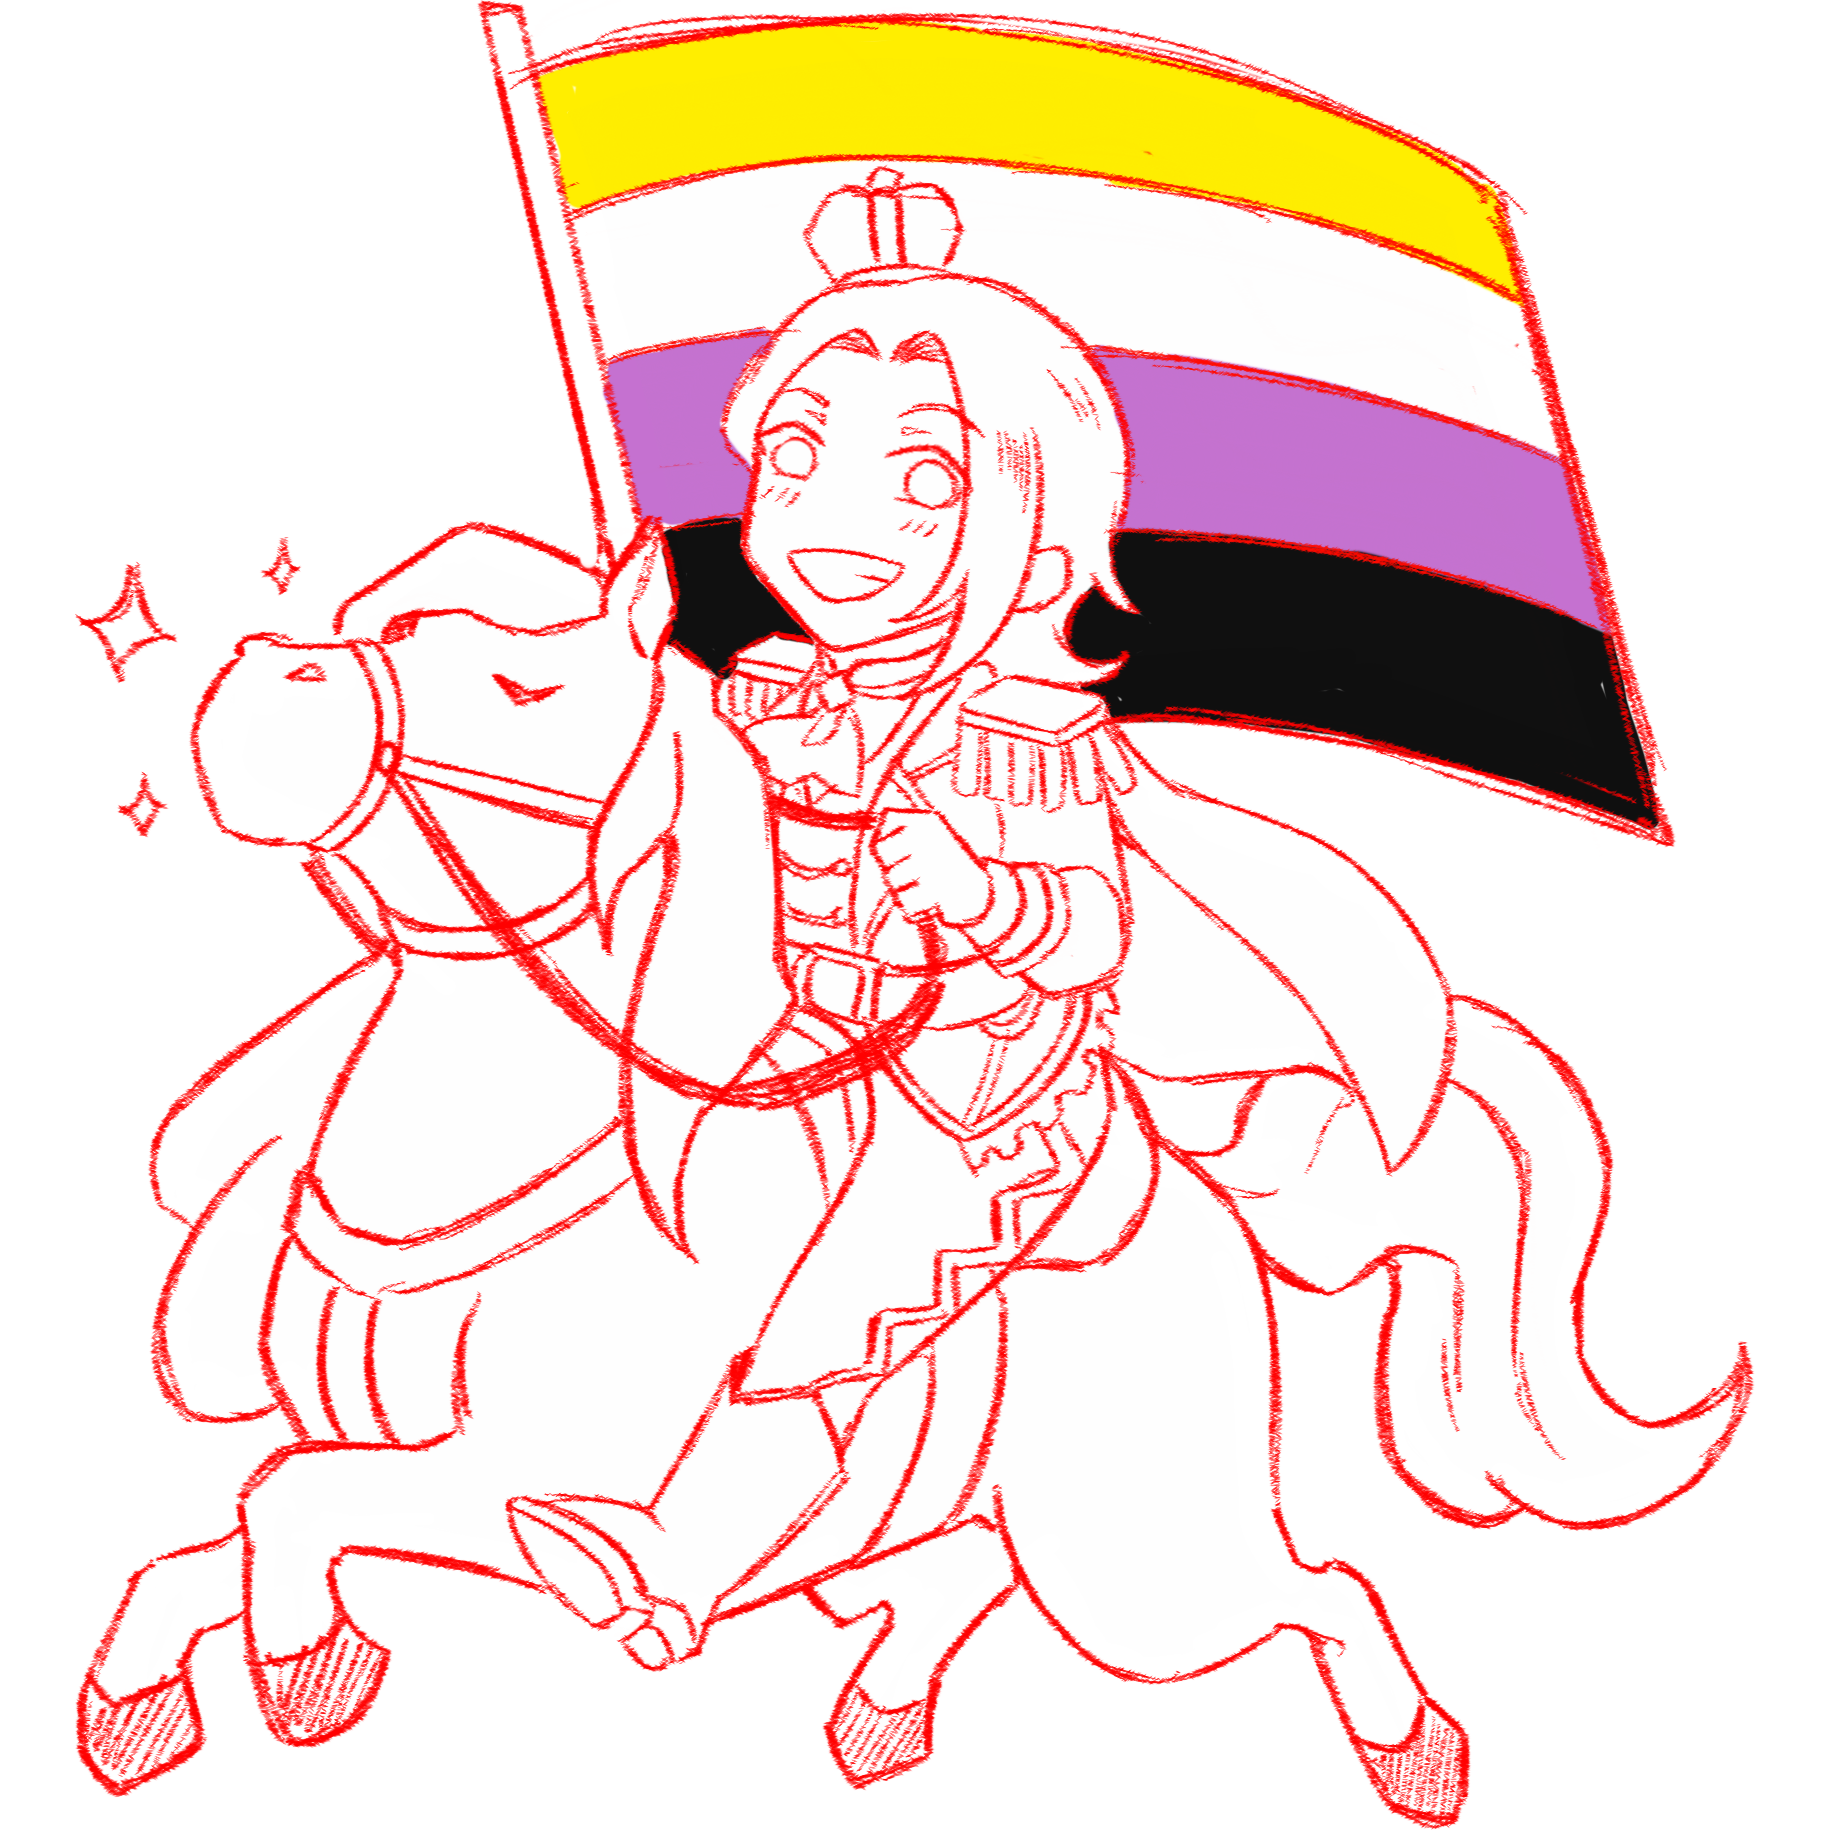
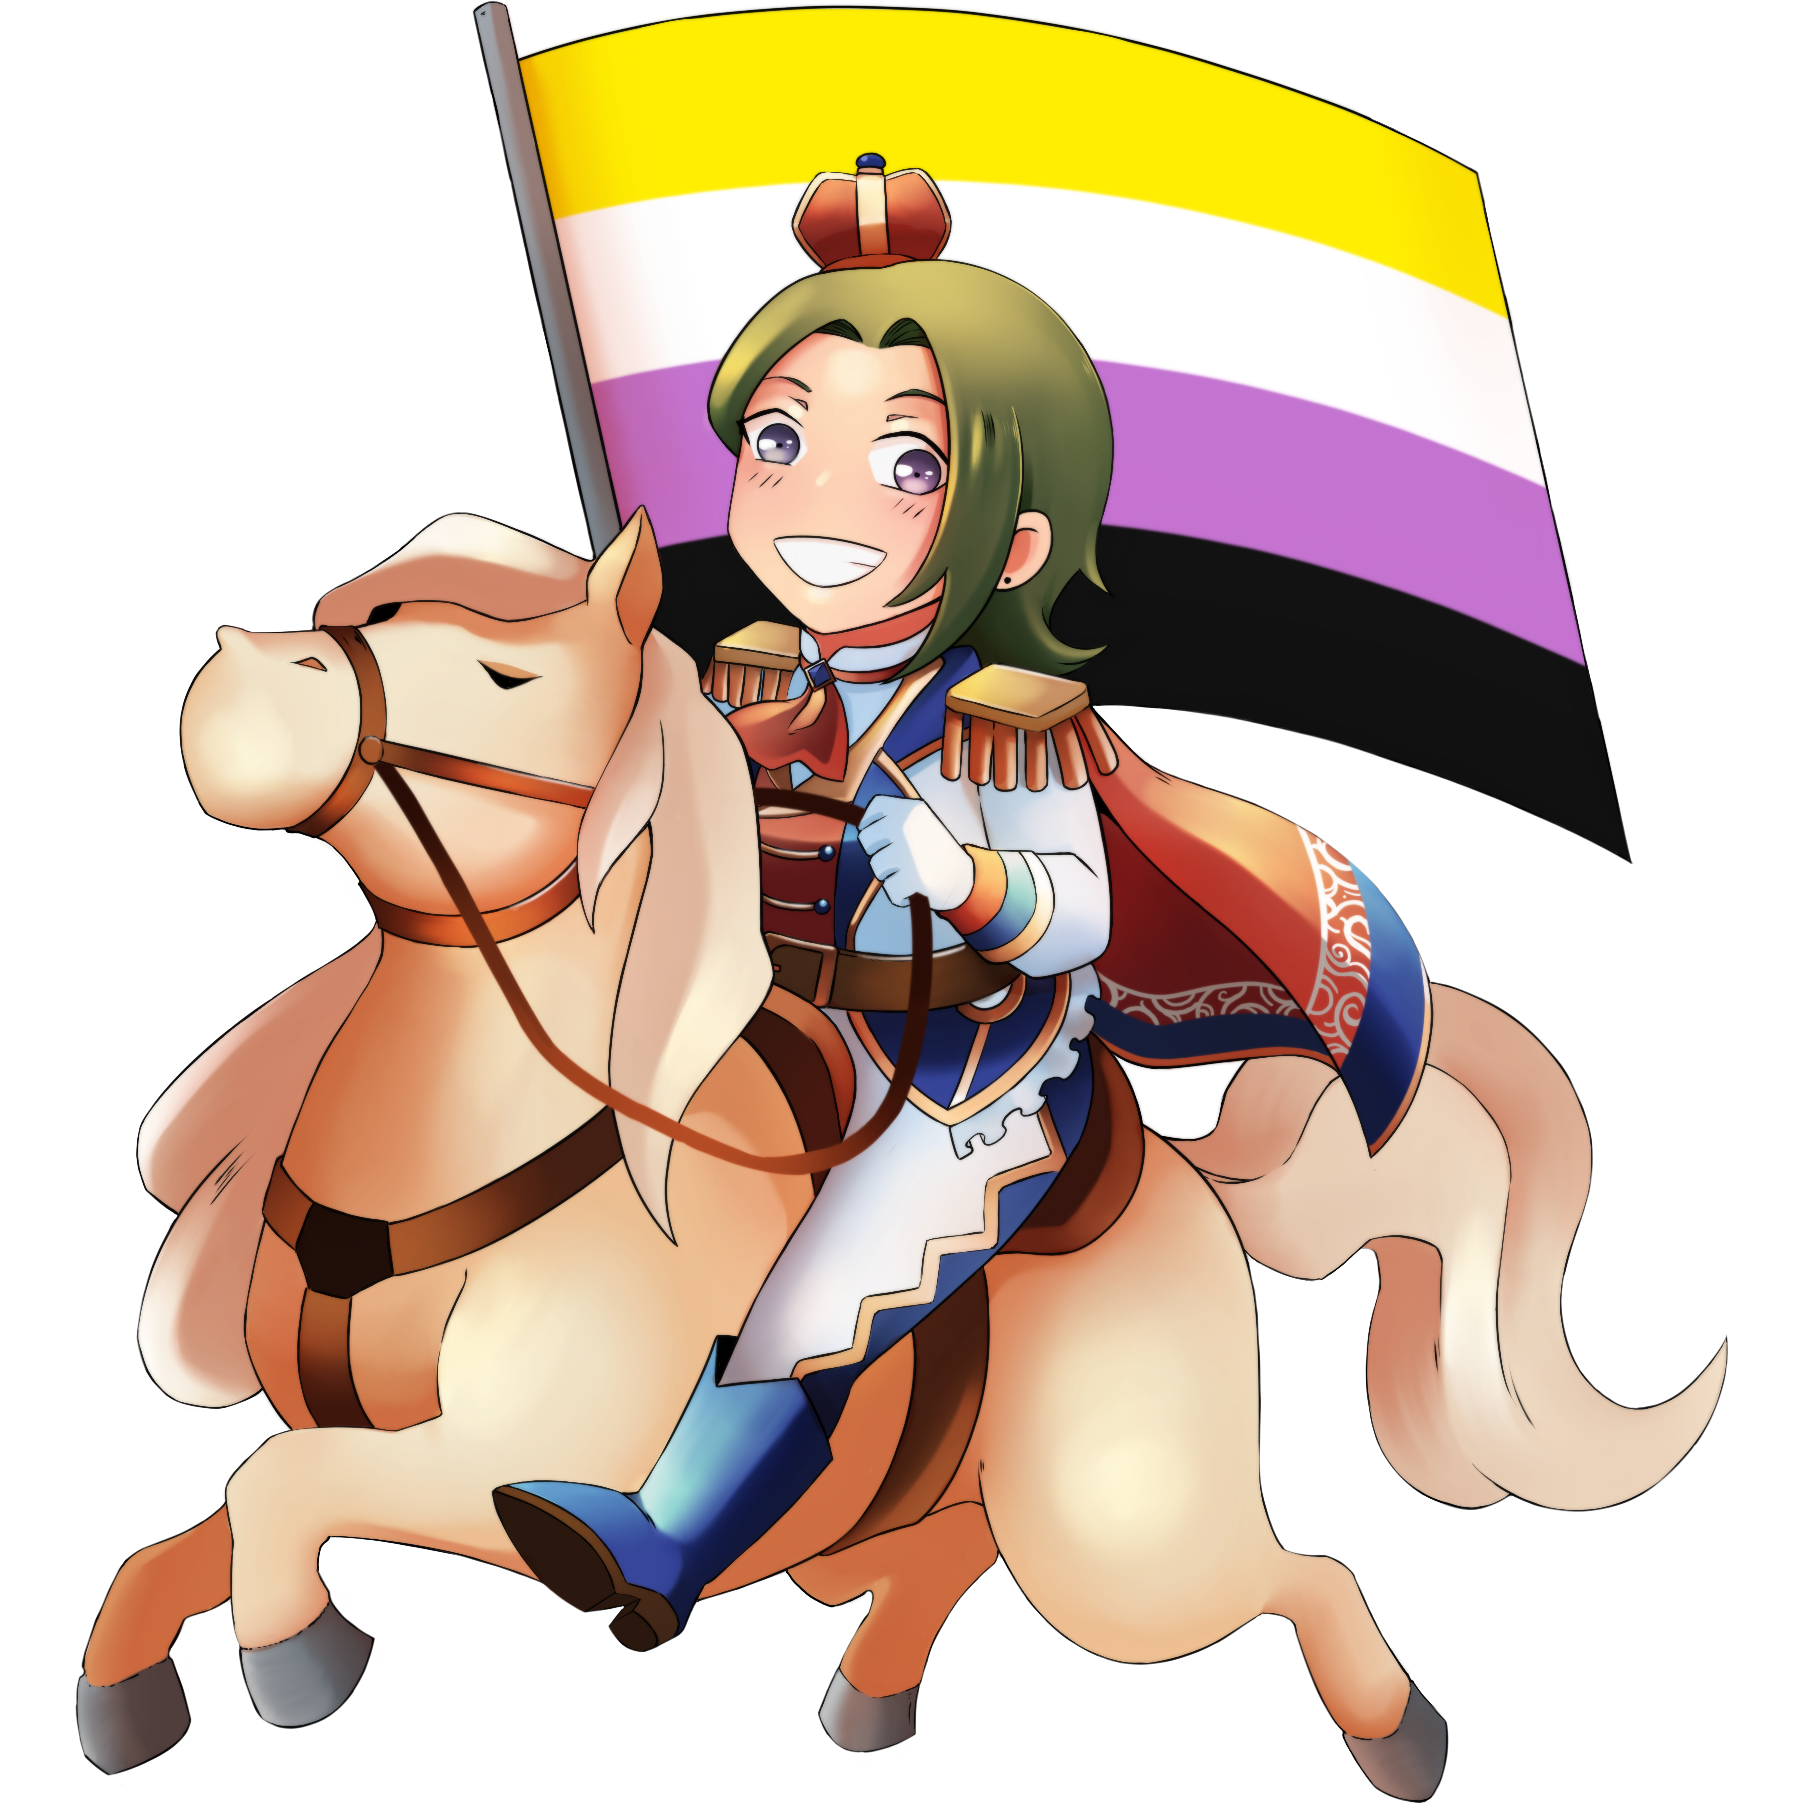
Add flags

diff --git a/relive-simulator-client/src/jsMain/kotlin/xyz/qwewqa/relive/simulator/client/FlagData.kt b/relive-simulator-client/src/jsMain/kotlin/xyz/qwewqa/relive/simulator/client/FlagData.kt
@@ -171,6 +171,13 @@ object FlagData {
           twitterId = "1515186747834978304",
       )
 
+    val kekkersKirinAssorted =
+        +FlagInfo(
+            artist = kekkers,
+            character = FlagCharacter.Kirin,
+            name = "assorted",
+        )
+
     val prisAmemiyaSgAce =
         +FlagInfo(
             artist = pris,
@@ -353,12 +360,12 @@ object FlagData {
           name = "delight_genderqueer",
       )
 
-//  val jayneSuzuPrinceNb =
-//      +FlagInfo(
-//          artist = jayne,
-//          character = FlagCharacter.Suzu,
-//          name = "prince_nb",
-//      )
+  val jayneSuzuPrinceNb =
+      +FlagInfo(
+          artist = jayne,
+          character = FlagCharacter.Suzu,
+          name = "prince_nb",
+      )
 
   val jayneHisameErdaNb =
       +FlagInfo(
